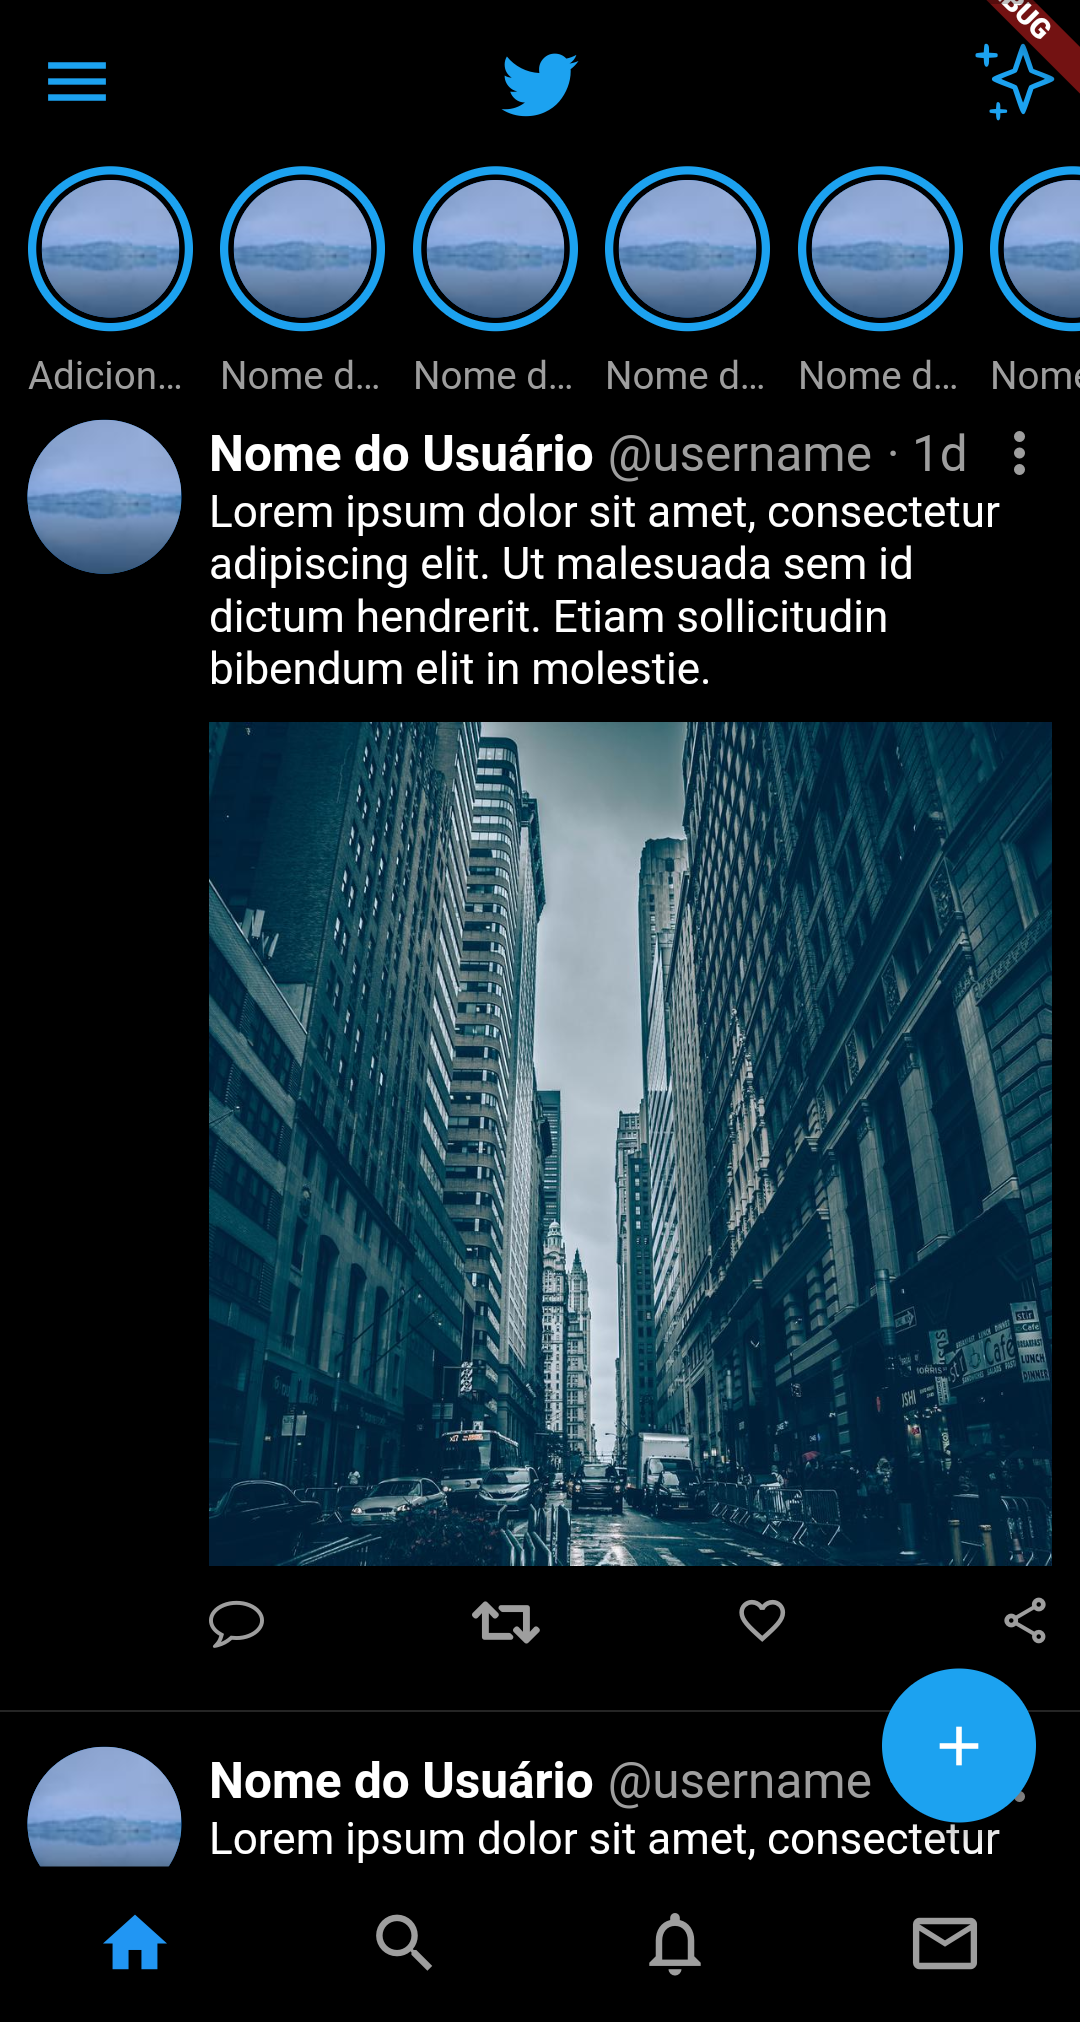
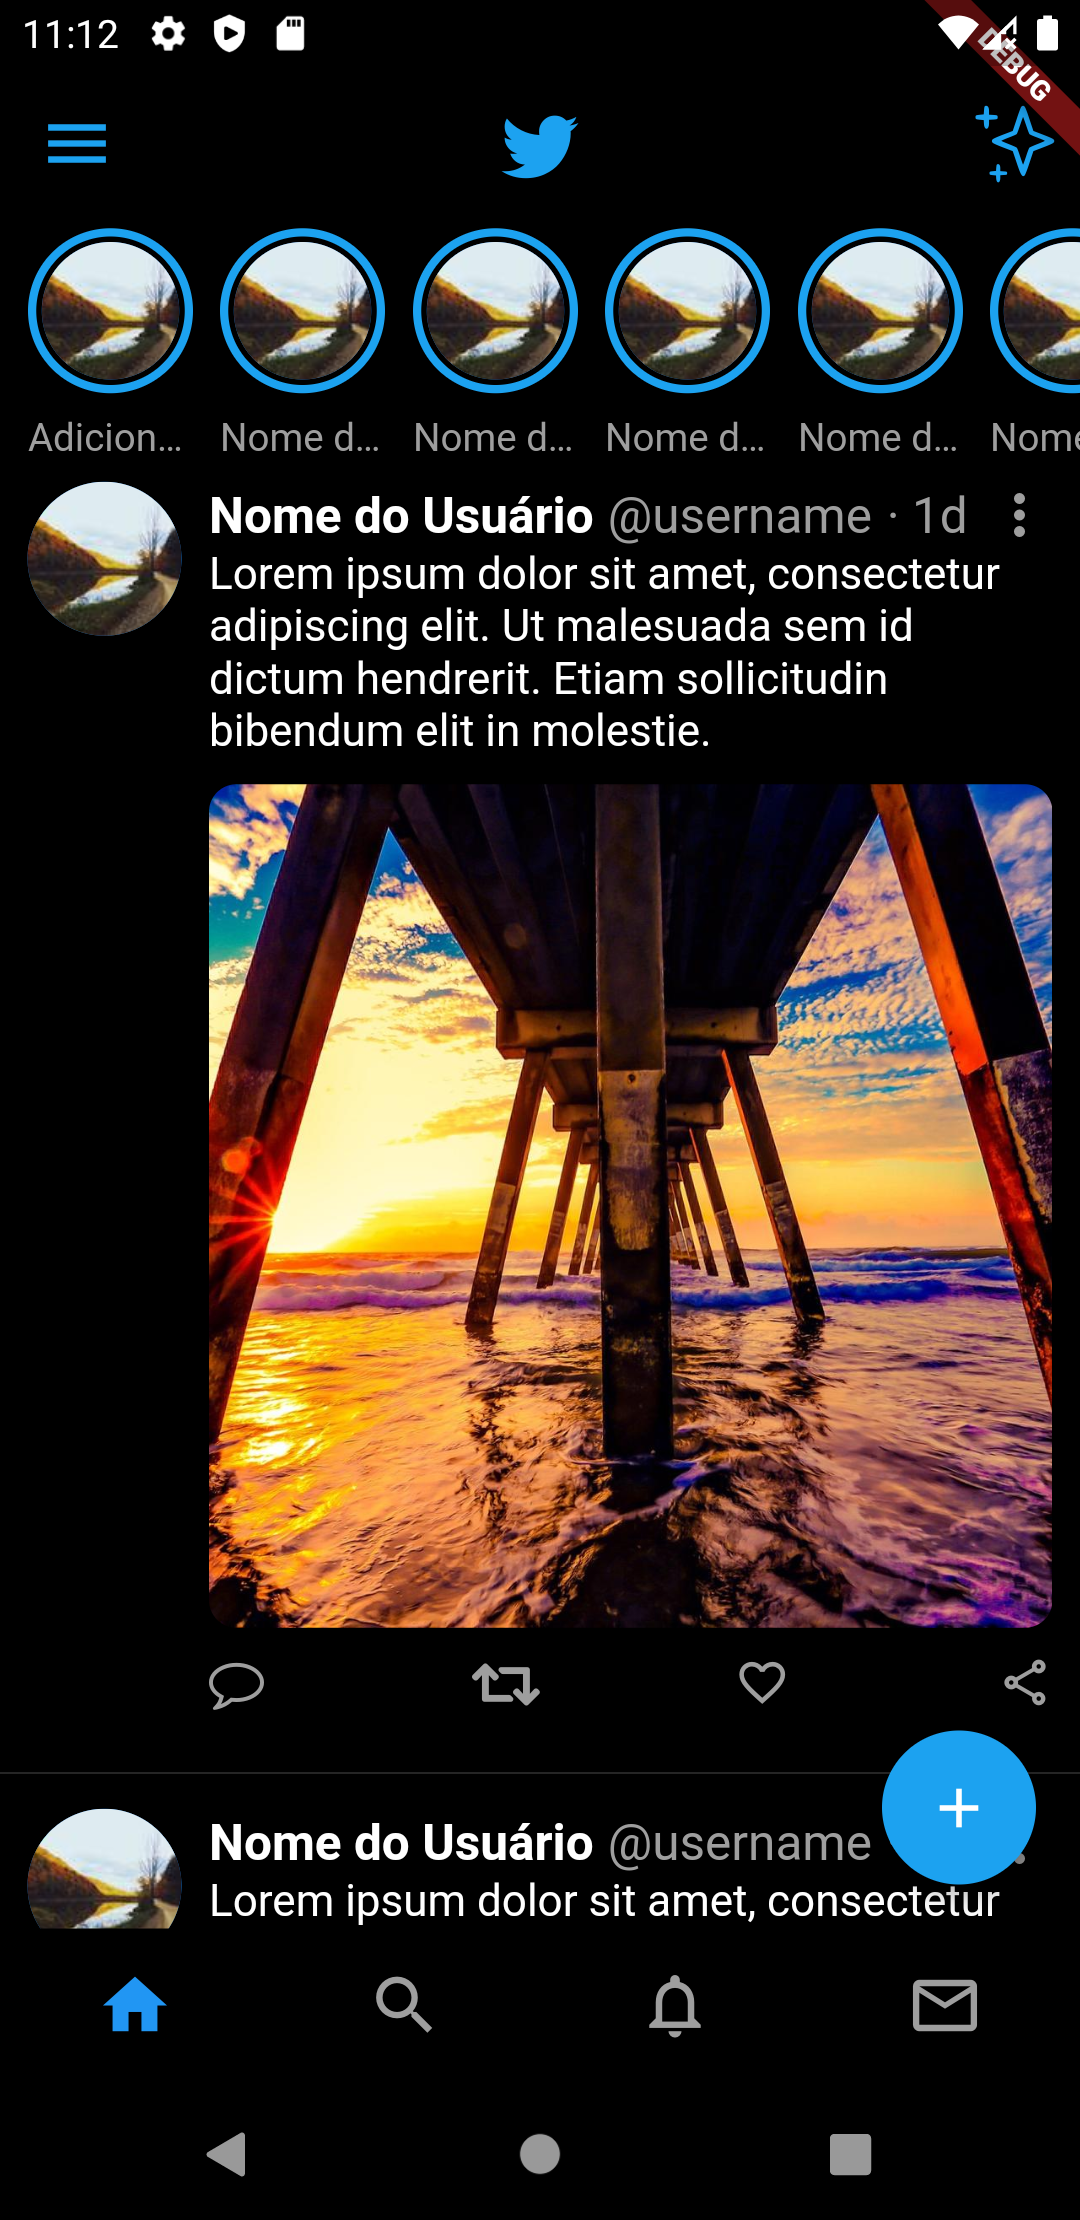
Fixed media borders not rounded

diff --git a/lib/widgets/tweet_widget.dart b/lib/widgets/tweet_widget.dart
@@ -83,12 +83,13 @@ class TweetWidget extends StatelessWidget {
                     ? const SizedBox.shrink()
                     : Container(
                         margin: const EdgeInsets.only(top: 10.0),
-                        decoration: BoxDecoration(
+                        child: ClipRRect(
+                          clipBehavior: Clip.antiAlias,
                           borderRadius: BorderRadius.circular(10.0),
-                        ),
-                        child: Image.network(
-                          mediaUrl!,
-                          fit: BoxFit.cover,
+                          child: Image.network(
+                            mediaUrl!,
+                            fit: BoxFit.cover,
+                          ),
                         ),
                       ),
                 Row(
